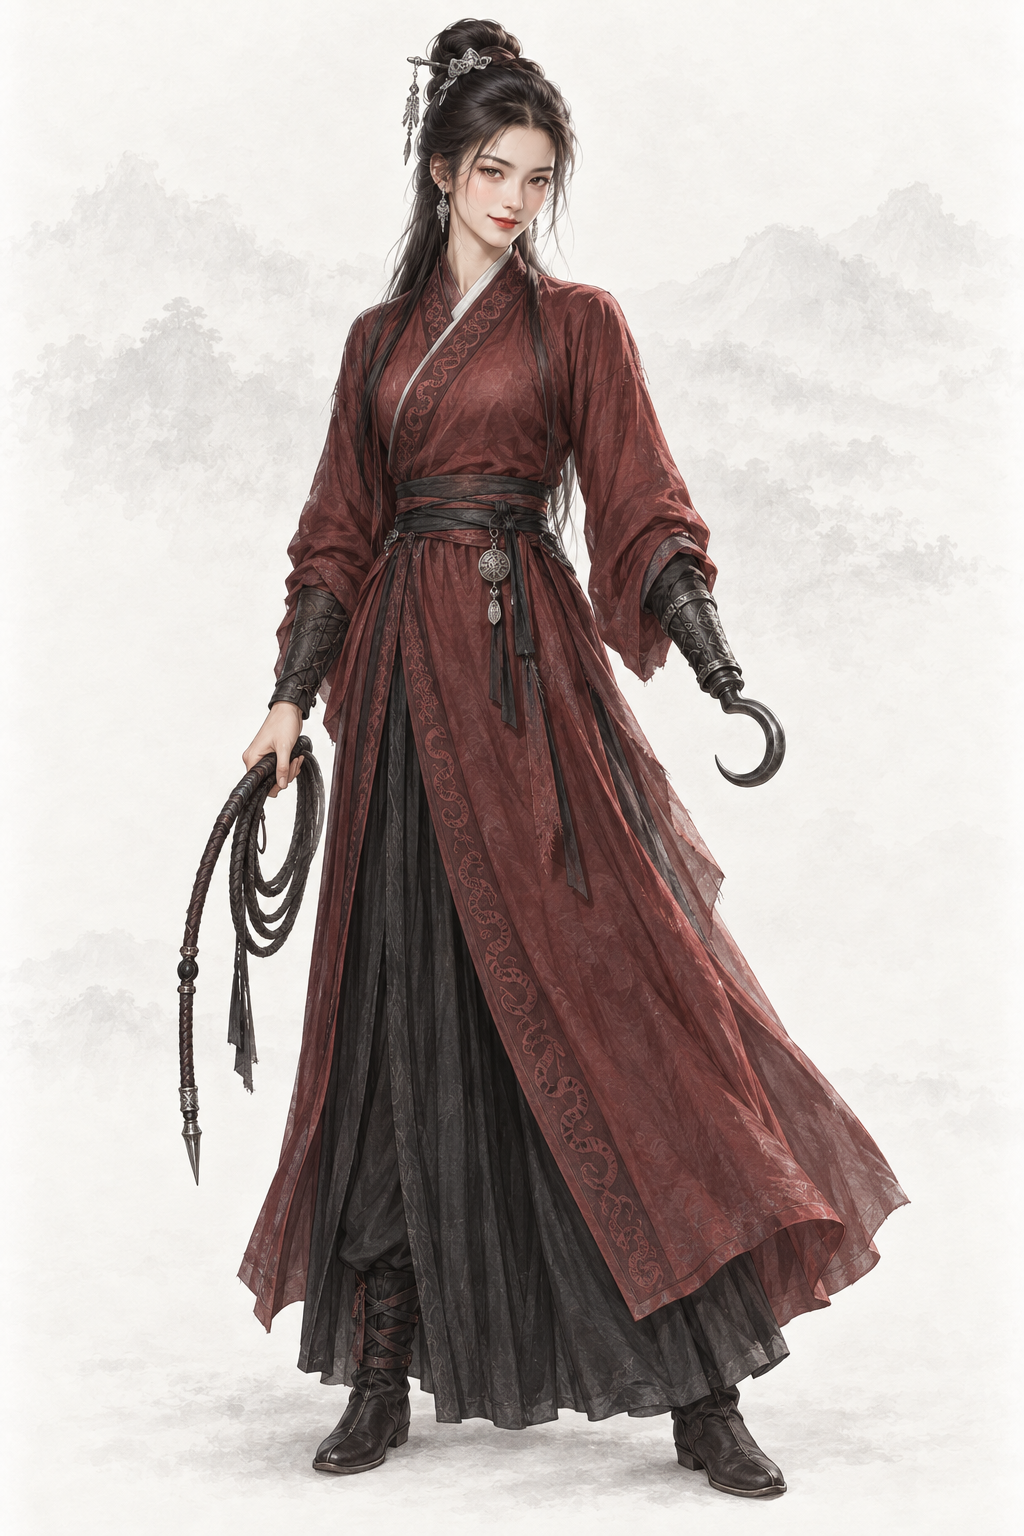
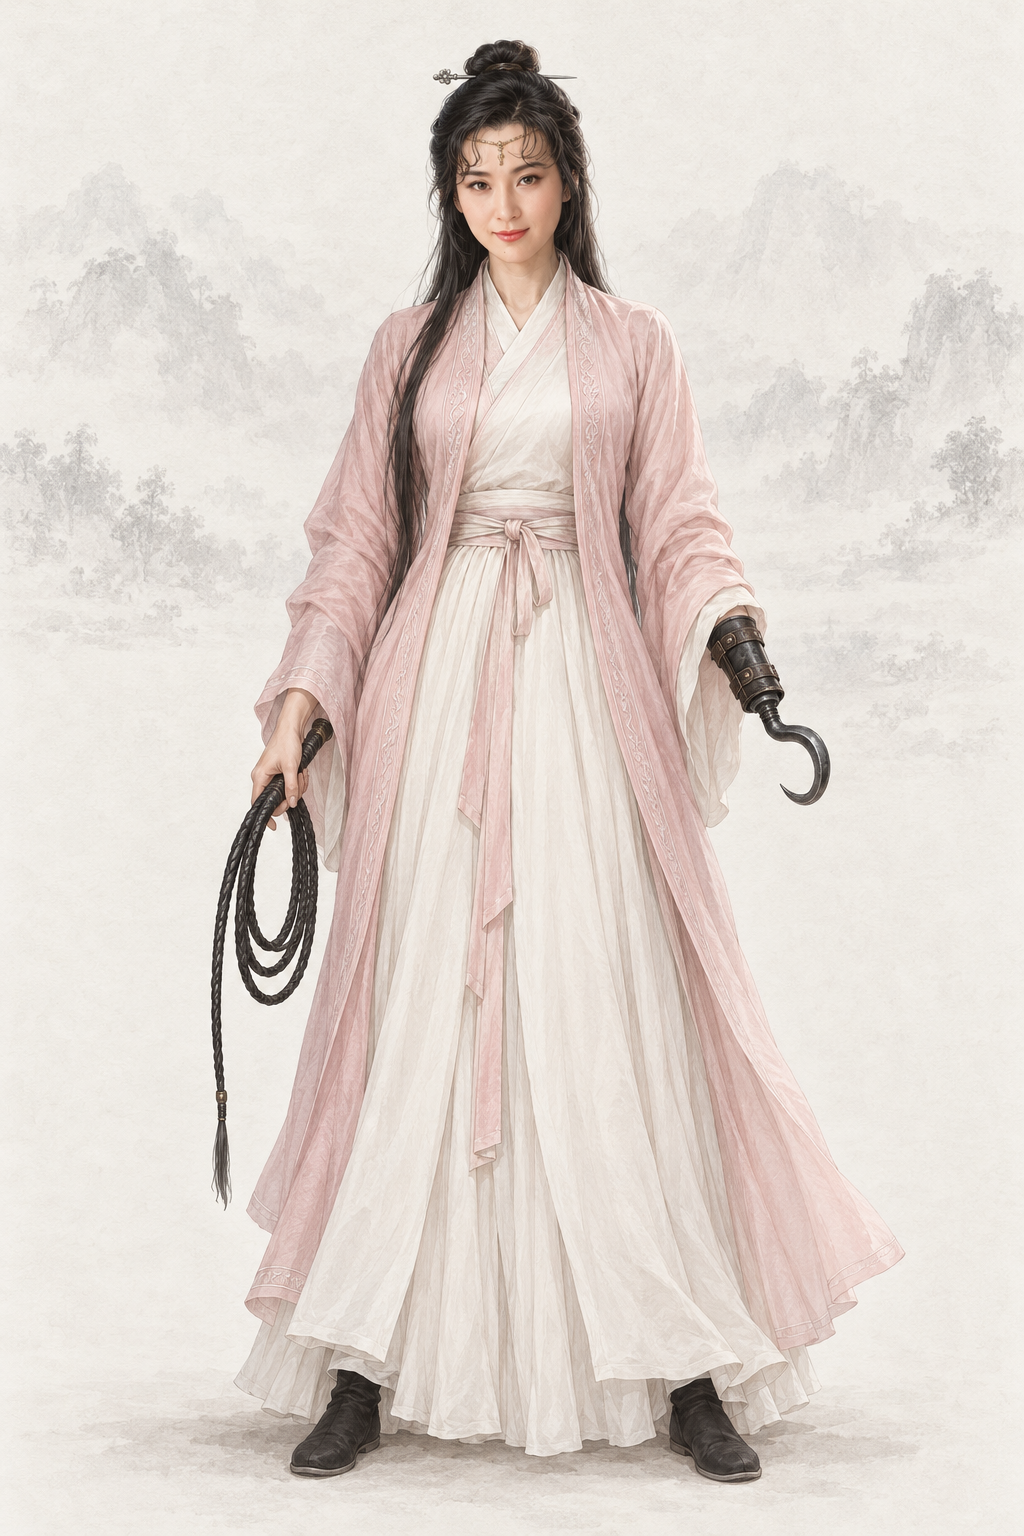
assets(character): por_npc_hetieshou__ch07_youth_leader_base 何铁手（codex · AR-32 1985 TVB《碧血剑》 剧照 + 基线）
上传顺序：第 1–2 张为 1985 TVB《碧血剑》何铁手剧照（hetieshou_1985_chenxiuzhu_sina2.jpg 为刊物封面右下的她；sina1.jpg 裁去水印），最后两张为同性别基线；提示词写回、frontmatter 加 classic_ref。

diff --git a/assets/default/prompts/characters/ch07-bixue/npc_hetieshou.md b/assets/default/prompts/characters/ch07-bixue/npc_hetieshou.md
@@ -13,9 +13,28 @@ references:
     use: 本工作区 manifest 为 approved；仅参考纸底、光线、笔触与设色，不沿用脸、体型、服饰和道具
 status: new
 redo_reason: "五毒教主何铁手（S）缺图；按“笑语盈盈而狠辣、一手为铁钩”的标志补出。"
-reference_upload:
-- assets/default/baseline/character/female/ref_npc_wangyuyan__ch01_base01.png
 codex_prompt_rev: 2026-10-02
+reference_upload:
+- .agents/coord/imagegen-reference/identity-20261002/bixue/hetieshou_1985_chenxiuzhu_sina2.jpg
+- .agents/coord/imagegen-reference/identity-20261002/bixue/hetieshou_1985_chenxiuzhu_sina1.jpg
+- assets/default/baseline/character/female/ref_npc_wangyuyan__ch01_base01.png
+- assets/default/baseline/character/female/ref_npc_xiaolongnv__ch03_base01.png
+classic_ref:
+  version: 1985 TVB《碧血剑》
+  stills:
+  - .agents/coord/imagegen-reference/identity-20261002/bixue/hetieshou_1985_chenxiuzhu_sina2.jpg
+  - .agents/coord/imagegen-reference/identity-20261002/bixue/hetieshou_1985_chenxiuzhu_sina1.jpg
+  crop:
+    hetieshou_1985_chenxiuzhu_sina2.jpg:
+    - 440
+    - 460
+    - 690
+    - 935
+    hetieshou_1985_chenxiuzhu_sina1.jpg:
+    - 40
+    - 0
+    - 280
+    - 180
 ---
 
 <!-- full-coverage-import:current-policy:v1 -->
@@ -28,6 +47,28 @@ codex_prompt_rev: 2026-10-02
 # 何铁手 · 《碧血剑》（ch07）
 
 ## Gemini 提示词
+
+> 2026-10-02 AR-32 重出（8 号出图员，codex exec · image_gen）：主要角色参考经典造型加项目基线生成。上传顺序：第 1–2 张为 1985 TVB《碧血剑》何铁手剧照（hetieshou_1985_chenxiuzhu_sina2.jpg 为刊物封面右下的她；sina1.jpg 裁去水印），最后两张为同性别画风基线（缩小版 JPEG）。参考图只借造型、气质与面部特征，画面按项目画风重绘、不复制照片或像素图。上一版保留在下一节作历史。
+
+```text
+生成一张 2:3 竖幅全身人物立绘：单人、单一视角、完整全身——头顶、双手、双脚和手中器物的两端都在画面内，四周留出自然空白；人物站姿自然，身体基本朝向正面，头部端正（不歪头、不仰不俯），镜头平视。
+【参考图】第 1–2 张参考图是该角色经典影视造型的剧照：借鉴其发型、服饰、配色、标志道具、气质和面部特征，让人一眼认出是这个角色；但必须重新绘制成项目画风，不要照片质感，不要照搬剧照的构图、光影、背景和姿势，也不要做成照片修图。最后两张是本项目画风基线：画风、用色、光线、质感和暖浅灰纸底加淡水墨背景以它们为准。
+【剧照借鉴要点】取剧照里的金色细额箍（额前正中垂一枚小坠饰）、披肩的乌黑长发、粉色外衫配白色内衣的配色、明艳带笑的五官。姿势和构图按下文的全身立绘来画，不照搬剧照。
+【画风】写实手绘古风人物插画，与本项目写实武侠角色立绘同一画风，像功力深厚的画师用细腻笔触画出的真实人物。手绘插画质感，不是 CG 渲染：不要过度光滑的皮肤、完美对称的五官、塑料高光、过度锐利的发丝；保留自然的笔触和细微不完美。皮肤有真实质感——细小毛孔、细纹、晒痕和自然的左右不对称，不磨皮、不油亮；头发是一缕缕自然的发丝和少量碎发；布料看得出经纬纹理、厚薄和自然垂坠的褶皱，带穿用过的轻微旧化，但完整不破烂；整体设色低饱和、沉稳；柔和的自然光从左上方照来，明暗过渡自然，不打舞台光、轮廓光或美颜柔光。不是照片，不是三维渲染，不是动漫或游戏 CG，也不是油画（没有厚涂笔触和画布纹理）。
+【背景】不透明的暖浅灰色纸底，只在远处有极淡的水墨远山和薄雾，大面积留白；人物与背景明暗分明、轮廓边缘干净完整（后续要自动抠图），水墨和纸纹只在背景里，不侵入人物和衣服；脚下只有很淡的一点接触阴影。
+【人物】何铁手，《碧血剑》中云南五毒教的教主，在京师与袁承志交锋、尚未离教拜师的时期（明末）。
+【年龄与体态】约二十五岁的成年女子，身材高挑、体态柔韧结实，举止从容。
+【经典造型】八十年代经典港剧里的何铁手：额上一道金色细额箍、长发披肩、一身粉色衣裙，左腕一只乌黑铁钩、右手执软鞭；笑语盈盈、眼波流转而暗藏狠辣，美艳动人、有教主威势。
+【面容】按剧照：饱满的鹅蛋脸；眉毛修长、眉尾上扬；眼睛明亮有神（自然大小），眼神审视而含笑——笑语盈盈，却暗藏狠辣；鼻梁挺直；嘴唇红润、嘴角含笑；肤色白里透着健康的暖色，有真实的皮肤纹理。美艳、自信。
+【发式】乌黑长发大半披在肩后，头顶挽一个小髻插银簪；额上戴一道金色细额箍，额前正中垂一枚小小的金坠饰。
+【服饰】粉红色交领窄袖长衫（右衽，左襟压右襟），白色内领，衣缘有细小的五毒纹样暗绣；白色长裙（内穿长裤）；细布腰带；黑色软靴。
+【道具】她的左手腕以下是一只乌黑的铁钩，用皮革护腕牢牢连接在前臂上——这是她的标志；右手握着一条收拢的细长软鞭；左前臂略离开身体，让铁钩清楚可见。
+【姿态与神情】从容站立，含笑看人。
+【不要】画面里不要任何文字、题款、印章、签名、水印、边框、分格或多视图；不要第二个人；不要幼态（童颜、娃娃脸、婴儿肥、儿童或少年身材、大头小身）；不要塑料感皮肤、磨皮美颜、网红脸（尖下巴大眼高鼻的模板脸）、过度对称、浓妆、偶像式打光、蜡像感；不要照片质感，不要像剧照照片、照片修图或拼贴，不要照搬剧照的背景、光影、构图和姿势；不要三维渲染或动漫大眼；不要歪头、斜镜头；不要多指、缺指（设定的伤残除外）、手与器物粘连或悬空；衣襟必须右衽（穿着者的左襟压在右襟上），不要左衽（设定为少数民族服制的除外），不要水平镜像；不要现代物品、发光特效、法阵或能量光。不要现代节庆的民族盛装；不要毒蛇毒虫缠身；不要血腥；不要把铁钩画到右手，右手是正常五指；不要清代旗装。
+【画风基线】随提示词上传的参考图里，最后两张是本项目的立绘画风基线：只参考它们的画风、用色、光线、质感和暖浅灰纸底加淡水墨的背景处理，整体画风必须与它们一致——精细写实的数字手绘插画，不是油画，不要厚涂笔触和画布纹理。基线图只取画风，不取长相：不要照搬基线图里人物的长相、年龄、发型、服饰和姿势。
+```
+
+## AR-31 文字版 Gemini 提示词（2026-10-02 凌晨；AR-32 重出之前，历史，不再用于出图）
 
 > 2026-10-02 Codex 人物线 2 号（AR-31）：在审核组稿上补一行「经典形象」（借鉴公认经典造型的发式、装束、配色、标志道具与气质，只写文字，不写演员名、不上传剧照），并补去 AI 化要求。本轮出图用下面第一个代码块；审核组原稿保留在其后的「审核组原稿」小节作历史。
 
